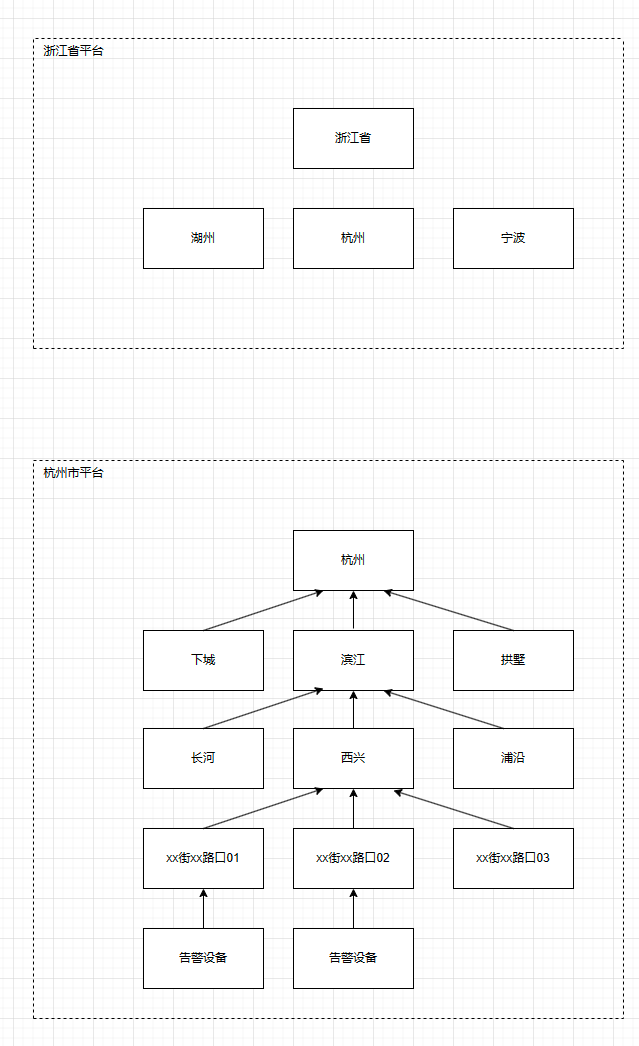
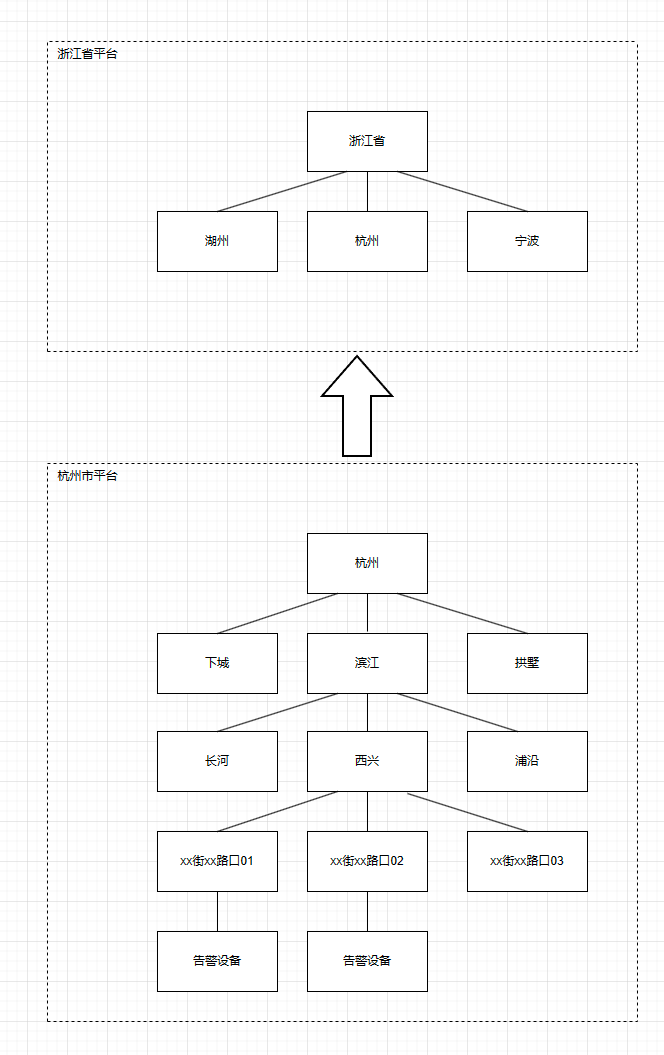
update

diff --git a/README.md b/README.md
@@ -6,7 +6,8 @@
 安防平台的设备资源树存在父子关系，国标要求资源推送过程中先推送父资源再推送子资源。优化过程中结合二叉树、链表和哈希表设计并实现了全新的安防平台资源推送方法，既能使用多线程推送，又能保证推送顺序。优化完成后资源推送性能提升数十倍，在对接行业内其他平台时性能优势明显。推送方法已申请专利。
 
 #### 详细介绍
-安防平台中除了管理实际存在的设备（相机）之外，还有一些虚拟概念，相机的“父组织”，虚拟设备“告警资源”，他们会按父子结构生成为一颗资源树。
+安防平台中除了管理实际存在的设备（相机）之外，还有一些虚拟概念，相机的“父组织”，虚拟设备“告警资源”，他们会按父子结构生成为一颗资源树。简单的上下级平台两棵资源树示例如下所示。
+
 ![资源树示例](img/res_push/res_tree.png)
 
 国标协议中要求安防平台实现目录查询功能。目录查询用通俗的语言解释就是下级平台，将资源树按约定的格式上报给上级平台，使上级平台能建立出同样的资源树，以便于上级平台可以查询下级平台的设备状态和设备的实况视频和录像等。
@@ -30,10 +31,22 @@
 #### 项目成果
 优化完成后性能提升数十倍（100条/s----> 3000条/s），对接行业内其他厂家平台时，资源推送性能优势明显。在国家数据中心的评比中，资源推送性能远超行业内其他厂家。此资源推送方法已申请专利，专利号 CN112988407A
 
-### SNMP
+### SNMP协议
+SNMP协议中有很多种数据类型，解析和组装报文时按常规思维实现，会有大量的条件判断语句。参考数个已有的开源实现，均为每种类型单独一个条件分支，函数规模较大，维护和扩展成本较高。
+实现时运用简单工厂和模板方法模式，用多态替换条件表达式，由父类委托具体的子类进行编解码，有效减少了条件分支和冗余代码。并依据最小知识原则，将数据流和数据分为两个类，数据和数据流类为组合关系，仅数据类对外暴露，有效减少了外部依赖。
+
+
+**为避免信息安全问题，此处仅贴出简化过的类图，和实际实现并不一致，仅供参考**
+![SNMP类图](img/snmp/snmp_simple_class.png)
+
+
+#### 项目成果
+按时完成了高质量交付，代码整体获得了较高的白盒评价。个人编码的部分被评为部门优秀代码。
+个人完成了SNMP模块测试框架的搭建，引入开源软件对接自研协议栈，使得自验证期间可以发现大部分问题，有效减少后端问题。
 
 
 ### 解包工具重构
+#### 详细介绍
 文件解包模块需要处理数种结构的包，旧的逻辑是每一种类型的包是一个分支，从文件头向后顺序处理。随着包类型的增多分支越来越多，难以维护。并且当文件较大时解包较慢，需要优化。
 ![tree](img/unpack/file_stru.png)
 
@@ -45,7 +58,12 @@
 1、使用工厂模式根据不同的包类型创建解包示例，用多态替换条件表达式
 2、用模板方法将解包流程更改为  获取全部文件列表---解包----解压文件。不再和之前一样一个一个解析，而是先解出所有的文件信息，再解包，此时解包和解压可以使用多线程来提升性能。
 
+#### 项目成果
+优化完成后，代码规模由2K优化至0.4K，代码维护成本显著下降。解包大文件的性能由19s优化到2s。
 
-### netm选路重构
+### 路由选路实现重构
 
+**为避免信息安全问题，此处仅贴出简化过的建模图，和实际实现并不一致，仅供参考**
+![pt_v](img/route/pt_v.png)
 
+![sw_v](img/route/sw_v.png)
